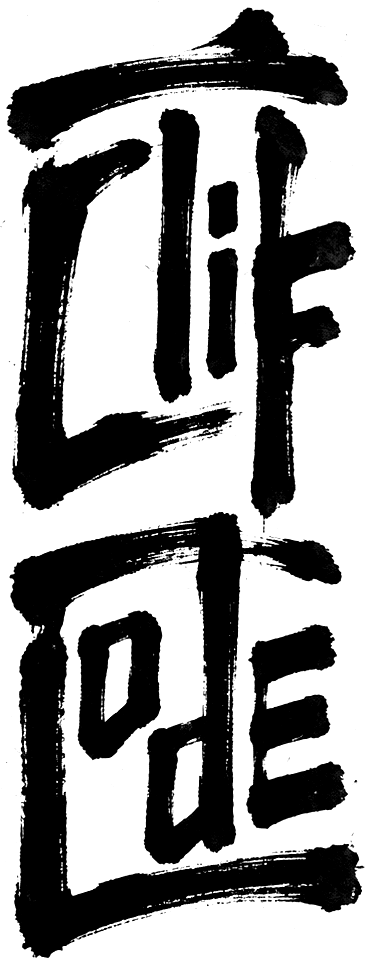
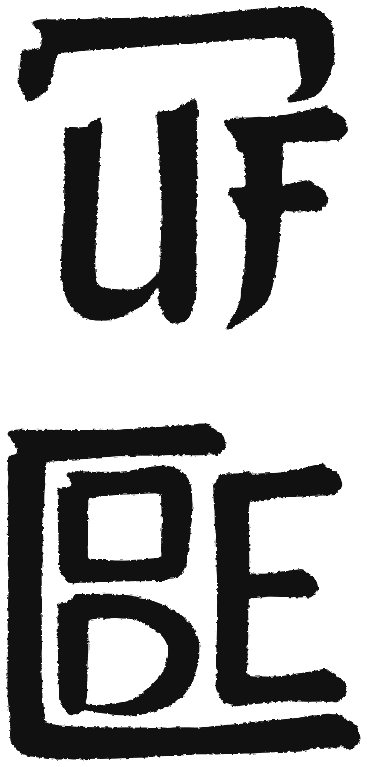
List every project, and redraw the wordmark as Xu Bing square words
Projects are now grouped: products, games and toys, studio and client work,
and early ideas, with live links where a project is public.

The wordmark folds each word into one square character, the way Xu Bing
writes English: in CLIF the C is the roof over L, I and F; in CODE the C
is the frame holding O over D, with E on the open side. The vertical mark
used on the share cards is redrawn the same way.

Claude-Session: https://claude.ai/code/session_01Nwt8f5n6xqZio1qgRh7z2U

diff --git a/src/data/pages.js b/src/data/pages.js
@@ -1,5 +1,28 @@
 export const pages = [
-  {slug:'projects',title:'Projects',intro:'Things I am building, testing or have shipped.',items:[{title:'Pumply',desc:'Crowdsourced fuel information for Ghana.',href:'projects/pumply'},{title:'Forecast',desc:'A play-credit prediction market experiment around African events.',href:'projects/forecast'}]},
+  {slug:'projects',title:'Projects',intro:'Things I am building, testing or have shipped, most of them for Ghana.',groups:[
+    {title:'Products',items:[
+      {title:'Pumply',desc:'Crowdsourced fuel prices for Ghana: find stations near you and what they charge right now.',href:'projects/pumply'},
+      {title:'Forecast',desc:'A play-credit prediction market experiment around African events, starting with the NSMQ.',href:'projects/forecast'},
+      {title:'DwaPage',desc:'Your shop in one link: small businesses in Ghana get an order or booking page with Mobile Money checkout, and a Telegram ping for every paid order.',href:'https://momo-kit.codeclif.workers.dev',external:true},
+      {title:'Fanhub',desc:'A Mobile-Money-first way for African creators to earn from fans: monthly passes, paid posts and tips, paid out straight to MoMo. Working name.'},
+      {title:'ScamCheck GH',desc:'A WhatsApp bot that tells you whether a message is likely a MoMo scam. Forward it a suspicious SMS or a screenshot. It never calls anything safe.'},
+      {title:'ReadyOps',desc:'Business readiness for Ghana: what support a business may qualify for, what it needs to do next, and the evidence to prove it.'},
+      {title:'Lab Passport',desc:'A prototype for comparing diagnostic labs in Ghana by price, distance and turnaround time, booking a slot, and keeping your results in one place.'}
+    ]},
+    {title:'Games and toys',items:[
+      {title:'Dame',desc:'Ghanaian draughts drawn in a school notebook. Forest animals take on the market-day crew; play the computer, a friend, or someone online.',href:'https://codeclif.github.io/dame/',external:true},
+      {title:'Pool',desc:'Online 8-ball pool for the phone browser, with one physics engine shared by the game and the server so every shot plays out the same.',href:'https://pool-game.codeclif.workers.dev',external:true},
+      {title:'Nsem Cards',desc:'Pick an Akan proverb and an Adinkra symbol and make a card the size of a WhatsApp status, as a picture or a 6-second video.',href:'https://codeclif.github.io/nsem-cards/',external:true},
+      {title:'Touch grass',desc:'A hill of grass you can run your hand through. Find the four-leaf clover, earn a cutlass, make it rain.',href:'touch-grass'}
+    ]},
+    {title:'Studio and client work',items:[
+      {title:'SAUTiQ',desc:'My studio for websites and social media for Ghanaian brands, with concept demos like an eyewear shop where every pair of glasses opens in 3D.',href:'https://codeclif.github.io/sautiQ/',external:true},
+      {title:'Luluju Foods',desc:'The weekly lunch menu site for Luluju Foods Enterprise, where each day\'s share preview shows that day\'s meal.',href:'https://luluju.food',external:true}
+    ]},
+    {title:'Early ideas',items:[
+      {title:'BestBundle GH',desc:'Compare MTN, AirtelTigo and Telecel data bundles and find the cheapest one.'}
+    ]}
+  ]},
   {slug:'research',title:'Research',intro:'Questions I am exploring, without pretending every answer is finished.',items:[{date:'2026 Aug 02',title:'Why prediction markets fascinate me',href:'posts/why-prediction-markets-fascinate-me'},{date:'2026 May 31',title:'What crowdsourcing gets right and wrong',href:'posts/what-crowdsourcing-gets-right-and-wrong'}]},
   {slug:'diary',title:'Diary',intro:'Dated thoughts, observations and things I want to remember.',items:[{date:'2026 Oct 04',title:'Notes from Tech Buddies II',href:'posts/notes-from-tech-buddies-ii'},{date:'2026 Sep 29',title:'Notes from a random Tech Buddies Space',href:'posts/notes-from-a-random-tech-buddies-space'},{date:'2026 Jul 06',title:'Thinking about craftsmanship vs perfectionism',href:'posts/craftsmanship-vs-perfectionism'}]},
   {slug:'ai',title:'AI',intro:'Notes and writing about AI, software and how the way we build is changing.',items:[{date:'2026 Oct 04',title:'Notes from Tech Buddies II',href:'posts/notes-from-tech-buddies-ii'},{date:'2026 Sep 13',title:'The real joy was never typing',href:'posts/the-real-joy-was-never-typing'}]},

diff --git a/src/styles/global.css b/src/styles/global.css
@@ -389,9 +389,9 @@
    with the text colour, so it follows light and dark mode. */
 .identity-wordmark{
   display:block;
-  /* Same visual area as the old 2.15rem text name (~140x26px of ink). */
-  height:40px;
-  aspect-ratio:415 / 192;
+  /* Two square characters need a little more height than a line of letters to stay readable. */
+  height:48px;
+  aspect-ratio:788 / 351;
   background:currentColor;
   -webkit-mask:var(--wordmark) center / contain no-repeat;
   mask:var(--wordmark) center / contain no-repeat;
@@ -409,7 +409,7 @@
 }
 @media(max-width:600px){
   .identity-wordmark{
-    height:30px;
+    height:38px;
   }
 }
 
@@ -447,3 +447,9 @@
 
 /* Ten sections make a lone last item in the three-column phone menu; centre it. */
 @media(max-width:900px){.topic-nav a:last-child:nth-child(3n+1){grid-column:2}}
+
+/* Projects grouped by kind; an item without a public link shows its name unlinked. */
+.project-group{margin-top:8px}.project-group+.project-group{margin-top:34px}
+.project-group h2{font-size:.82rem;font-weight:700;letter-spacing:.08em;text-transform:uppercase;color:var(--muted);margin:0 0 16px}
+.simple-list .item-title{font-size:1.25rem;font-weight:650}
+.simple-list li p{margin:6px 0 0}
